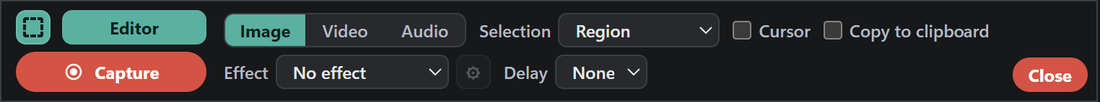
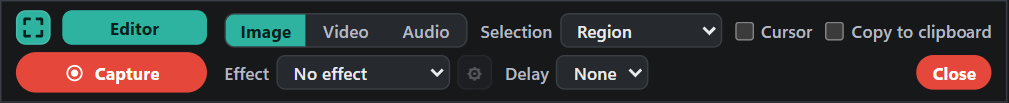
Saveit 10.4.8

diff --git a/app/index.html b/app/index.html
@@ -477,7 +477,7 @@ function layoutStage(){
   $('#inner').hidden=!it||it.kind!=='image';
   $('#guide').hidden=!it||it.kind!=='guide'; if(it&&it.kind==='guide')renderGuide();
   if(it&&it.kind==='video'){const w=document.createElement('div');w.className='vwrap';stage.appendChild(w);
-    const m=VEdit.mount(w,it,{toast,saveBlob,baseName,addVideo,persist,exportFile:()=>saveAs(),changed:()=>persist(it),newShape,drawShape,bbox,handles,selBox,resizeByHandle,handleCursor:HANDLE_CURSOR,moveShape,norm,askText,setStyle:(k,v)=>{S.p[k]=v},itemById:id=>S.items.find(x=>x.id===id),hydrate:x=>hydrate(x),videos:()=>S.items.filter(x=>x.kind==='video'&&x!==it),mediaMenu:e=>mediaTimelineMenu(e,'video'),pasteMedia:mode=>pasteMediaClip(mode).catch(actionError),paneChanged:()=>sync80()});vid=m.video;vid._wrap=w;vid._destroy=m.destroy;vid._ctl=m;try{renderProps()}catch(_){}}
+    const m=VEdit.mount(w,it,{toast,saveBlob,baseName,addVideo,persist,exportFile:()=>saveAs(),changed:()=>persist(it),newShape,drawShape,bbox,handles,selBox,resizeByHandle,handleCursor:HANDLE_CURSOR,moveShape,norm,askText,setStyle:(k,v)=>{S.p[k]=v},itemById:id=>S.items.find(x=>x.id===id),hydrate:x=>hydrate(x),videos:()=>S.items.filter(x=>x.kind==='video'&&x!==it),mediaMenu:e=>mediaTimelineMenu(e,'video'),canPasteMedia:()=>mediaClipboard?.kind==='video'&&!mediaCopyBusy,pasteMedia:mode=>pasteMediaClip(mode).catch(actionError),paneChanged:()=>sync80()});vid=m.video;vid._wrap=w;vid._destroy=m.destroy;vid._ctl=m;try{renderProps()}catch(_){}}
   if(it&&it.kind==='image'){const p=padFor(S.fx)+picMargin();cvW=S.ws?S.ws.sw:it.base.width+p*2;cvH=S.ws?S.ws.sh:it.base.height+p*2;cvK=0;applyZoom();}
 }
 let cvW=300,cvH=150,cvK=1;
@@ -978,6 +978,8 @@ const sessionSaved34=new Set();
 function saveExts9(it){const k=it.kind==='image'&&it.guide?'image':it.kind,l=(FORMATS[k]||FORMATS.image).map(x=>x[0]);if(it.kind==='video')return l.filter(x=>x==='mp4'?it.mp4:x==='webm'?it.webm:x==='gif');if(it.kind==='audio')return l;return['saveit',...l.filter(x=>x!=='saveit')]}
 async function save(fmtArg){const it=S.cur;if(!it)return;commitText();saveTarget9=null;saveOwner9=null;let fmt=typeof fmtArg==='string'?fmtArg:$('#fmt').value;
   if(typeof fmtArg!=='string'&&window.bench?.savePick){let p=it.savedPath;if(!p||!sessionSaved34.has(it.id)){const ex=saveExts9(it),pe=p?p.split('.').pop().toLowerCase():fmt;if(pe&&ex.includes(pe)){ex.splice(ex.indexOf(pe),1);ex.unshift(pe)}p=await window.bench.savePick(p?p.replace(/\.[^.\\]+$/,''):baseName(it),ex);if(!p)return;sessionSaved34.add(it.id)}fmt=p.split('.').pop().toLowerCase();saveTarget9=p;saveOwner9=it}
+  // 10.4.6: picking a .pptx name in the Save box wrote a PNG picture (or, for a guide, nothing) under that name
+  if(fmt==='pptx'&&(it.kind==='image'||it.kind==='guide')){const tgt=saveTarget9,own=saveOwner9;saveTarget9=null;saveOwner9=null;toast('Preparing the PowerPoint…',0);try{const b=await pptx33(it,true);if(!b)return;saveTarget9=tgt;saveOwner9=own;await saveBlob(b,fileName('pptx'))}catch(e){actionError(e)}return}
   if(it.kind==='video'){if(fmt==='gif'){saveTarget9=null;saveOwner9=null;if(vid&&vid._ctl)vid._ctl.saveGif();return}const ctl97=vid&&vid._ctl;if(ctl97&&((ctl97.needsRender&&ctl97.needsRender())||(fmt==='mp4'&&VEdit.needsMp4Render(it)))){const tgt=saveTarget9,own=saveOwner9,len=ctl97.duration?ctl97.duration():0,lenT=len?' ('+Math.floor(len/60)+':'+String((len%60).toFixed(1)).padStart(4,'0')+')':'';saveTarget9=null;saveOwner9=null;
     toast('Saving your edited video'+lenT+'… Cancel is in Export.',9000);
     (async()=>{try{const o=await ctl97.renderBlob(fmt==='mp4'?'mp4':'webm');if(!o){toast('Save cancelled. Nothing was written.',5000);return}const b2=fmt==='mp4'?o.mp4:(o.webm||o.mp4);if(!b2){toast('MP4 could not be made here. Choose WebM.',6000);return}saveTarget9=tgt;saveOwner9=own;saveBlob(b2,fileName(fmt),'Saved the edited video'+lenT+' to')}catch(e){toast('Could not save: '+(e.message||e),6000)}})();return}
@@ -1228,8 +1230,11 @@ function importFile(f){
   if(/\.saveit$/i.test(f.name)||/\.saveit\.json$/i.test(f.name)){openSaveit(f);return}
   if(f.type.startsWith('image/')){const img=new Image();img.onload=()=>{addImage(canvasFrom(img),f.name.replace(/\.\w+$/,''));URL.revokeObjectURL(img.src)};img.onerror=()=>toast('That image could not be opened.');img.src=URL.createObjectURL(f)}
   else if(f.type.startsWith('audio/')||/\.(wav|mp3|m4a|aac|ogg|oga|opus|flac|weba)$/i.test(f.name)){const nm=f.name.replace(/\.\w+$/,'');AEdit.decode(f).then(()=>addAudio([{name:nm,blob:f,vol:1,mute:false,solo:false}],nm)).catch(()=>toast('That audio file could not be opened. Try WAV, MP3, M4A, OGG or FLAC.',6000))}
-  else if(f.type.startsWith('video/')){videoThumb(f).then(t=>addVideo(f,f.name.replace(/\.\w+$/,''),t))}
+  else if(f.type.startsWith('video/')){videoOk106(f).then(ok=>{if(!ok){toast('That video could not be opened. Try MP4 or WebM.',6000);return}return videoThumb(f).then(t=>addVideo(f,f.name.replace(/\.\w+$/,''),t))}).catch(actionError)}
+  else toast(`Saveit can't open ${f.name}. It opens pictures, videos, audio and .saveit files.`,6000) // 10.4.6: before, other files were silently ignored
 }
+/* 10.4.6: a damaged video was added to the library as an empty "0.0 MB" item that could not play. Check it can be read first. */
+function videoOk106(f){return new Promise(res=>{const v=document.createElement('video'),u=URL.createObjectURL(f);let d=false;const end=ok=>{if(d)return;d=true;v.removeAttribute('src');v.load();URL.revokeObjectURL(u);res(ok)};v.muted=true;v.preload='metadata';v.onloadedmetadata=()=>end(true);v.onerror=()=>end(false);setTimeout(()=>end(true),10000);v.src=u})}
 $('#openBtn').onclick=()=>$('#file').click();
 $('#file').onchange=e=>{const gid=e.target.dataset.guide;delete e.target.dataset.guide;const g=gid&&S.items.find(x=>x.id===gid);
   if(g){inOrder105([...e.target.files].filter(f=>f.type.startsWith('image/')),img=>{makeStep(g,canvasFrom(img));persist(g);if(S.cur===g){renderGuide();renderGuideProps($('#props'),g)}renderTray()})}
@@ -1240,7 +1245,7 @@ function importFiles105(files){const pics=files.filter(f=>f.type.startsWith('ima
 document.addEventListener('paste',e=>{if(editing||textTarget(e.target))return;const fs=[...(e.clipboardData?.items||[])].filter(i=>i.kind==='file').map(i=>i.getAsFile()).filter(Boolean);if(fs.length){e.preventDefault();pasteFiles11(fs)}});
 // 10.3.11: Ctrl+V does what right-click > Paste does. With a screenshot open, pasted pictures go on top of it as layers; with
 // nothing open, in the Library window, or for video/audio files they are added to the library as before.
-async function pasteFiles11(fs){const it=S.cur;if(it?.kind==='image'&&!it.guide&&!$('#libModal')&&fs.every(f=>/^image\//.test(f.type))){try{let n=0;for(const f of fs)await pasteImageLayer(await pictureUrl88(f),n++,fs.length>1);if(fs.length>1)toast(`Added ${fs.length} pictures. Drag to move; use the handles to resize. Ctrl+Z undoes.`,5000)}catch(err){actionError(err)}return}importFiles105(fs);toast('Pasted into library')}
+async function pasteFiles11(fs){const it=S.cur;if(it?.kind==='image'&&!it.guide&&!$('#libModal')&&fs.every(f=>/^image\//.test(f.type))){try{let n=0;for(const f of fs)await pasteImageLayer(await pictureUrl88(f),n++,fs.length>1);if(fs.length>1)toast(`Added ${fs.length} pictures. Drag to move; use the handles to resize. Ctrl+Z undoes.`,5000)}catch(err){actionError(err)}return}importFiles105(fs);if(fs.some(f=>/^(image|video|audio)\//.test(f.type)||/\.(saveit|saveit\.json|wav|mp3|m4a|aac|ogg|oga|opus|flac|weba)$/i.test(f.name)))toast('Pasted into library')}
 stage.addEventListener('dragover',e=>{e.preventDefault();stage.classList.add('dragging')});
 stage.addEventListener('dragleave',e=>{if(e.target===stage||!stage.contains(e.relatedTarget))stage.classList.remove('dragging')});
 stage.addEventListener('drop',e=>{e.preventDefault();stage.classList.remove('dragging');importFiles105([...e.dataTransfer.files])});
@@ -2297,6 +2302,7 @@ async function openSaveit(f){try{const d=JSON.parse(await f.text());if(d.app!=='
   else if(d.kind==='guide'){const g=newGuide(d.title);g.numColor=d.numColor||g.numColor;g.pageShapes=d.pageShapes||[];
     for(const st of d.steps||[]){const c=await dataUrlCanvas(st.png);const x=makeStep(g,c);x.title=st.title||'';x.text=st.text||'';x.shapes=st.shapes||[];x.fx=st.fx||defFx();const old=st.id;if(old){for(const ps of g.pageShapes)if(ps.anchor===old)ps.anchor=x.id}}
     openItem(g);persist(g)}
+  else throw 0; // 10.4.6: an unknown kind said "Opened" while nothing opened
   toast('Opened '+f.name)}catch(e){toast('That file is not a Saveit file, or it is damaged.')}}
 
 // Saveit 3.3: library performance first, then everyday workflows and editing.

diff --git a/app/audio-project.js b/app/audio-project.js
@@ -35,7 +35,7 @@ function remove(p,ids,range,ripple=false,all=false){
   for(const t of p.tracks){const spans=all?global:merge(chosen.filter(c=>c.track===t.id));for(const c of p.clips.filter(c=>c.track===t.id))c.start-=spans.filter(s=>s[1]<=c.start+.000001).reduce((sum,s)=>sum+s[1]-s[0],0);for(const [a,b]of spans.slice().reverse()){const e={effects:t.effects};root.AudioTimeline.cutEffects(e,a,b);t.effects=e.effects}}
   if(all)for(const [a,b]of global.slice().reverse()){const e={effects:p.effects};root.AudioTimeline.cutEffects(e,a,b);p.effects=e.effects}p.length=Math.max(0,...p.clips.map(end));return true;
  }
- const tracks=affectedTracks(p,ids,range,all);let a,b;
+ const tracks=affectedTracks(p,ids,range,all);if(ripple)all=all||p.tracks.every(t=>tracks.has(t.id));let a,b;
  if(range){a=range.s;b=range.e}else{const clips=p.clips.filter(c=>ids.has(c.id));if(!clips.length)return false;a=Math.min(...clips.map(c=>c.start));b=Math.max(...clips.map(end))}
  if(b-a<.00001)return false;const out=[];
  for(const c of p.clips){if(!tracks.has(c.track)){out.push(c);continue}if(!range&&!ids.has(c.id)){if(ripple&&c.start>=b)c.start-=b-a;out.push(c);continue}
@@ -46,7 +46,8 @@ function remove(p,ids,range,ripple=false,all=false){
  p.clips=out;if(ripple){for(const t of p.tracks)if(tracks.has(t.id)){const e={effects:t.effects};root.AudioTimeline.cutEffects(e,a,b);t.effects=e.effects}if(all){p.length=Math.max(0,p.length-(b-a));const e={effects:p.effects};root.AudioTimeline.cutEffects(e,a,b);p.effects=e.effects}}
  return true;
 }
-function insertGap(p,at,amount,tracks,all=false){split(p,new Set(p.clips.filter(c=>tracks.has(c.track)).map(c=>c.id)),at);for(const c of p.clips)if(tracks.has(c.track)&&c.start>=at-.000001)c.start+=amount;for(const t of p.tracks)if(tracks.has(t.id))t.effects=root.AudioTimeline.insertEffects(t.effects,at,amount);if(all){p.effects=root.AudioTimeline.insertEffects(p.effects,at,amount);p.length+=amount}}
+// 10.4.6: when the chosen tracks are every track, whole-project effects move with the audio too (as with "All tracks")
+function insertGap(p,at,amount,tracks,all=false){all=all||p.tracks.every(t=>tracks.has(t.id));split(p,new Set(p.clips.filter(c=>tracks.has(c.track)).map(c=>c.id)),at);for(const c of p.clips)if(tracks.has(c.track)&&c.start>=at-.000001)c.start+=amount;for(const t of p.tracks)if(tracks.has(t.id))t.effects=root.AudioTimeline.insertEffects(t.effects,at,amount);if(all){p.effects=root.AudioTimeline.insertEffects(p.effects,at,amount);p.length+=amount}}
 function duplicate(p,ids){const selected=p.clips.filter(c=>ids.has(c.id));if(!selected.length)return[];const a=Math.min(...selected.map(c=>c.start)),b=Math.max(...selected.map(end));return selected.map(c=>{const n={...copy(c),id:id('clip'),start:c.start+b-a};n.effects=n.effects.map(f=>({...f,id:id('fx')}));p.clips.push(n);return n.id})}
 function owner(p,type,target){return type==='master'?p:type==='track'?p.tracks.find(t=>t.id===target):p.clips.find(c=>c.id===target)}
 function effect(type,start,stop){return{...root.AudioFX.defaults(type),id:id('fx'),type,start,end:stop,amount:type==='volume'?100:type==='echo'?35:type==='reverb'?30:100,delayMs:180,feedback:35,decay:.45,bypass:false}}

diff --git a/app/widget.html b/app/widget.html
@@ -22,9 +22,9 @@ button.go{background:#e5483b;border-color:#e5483b;color:#fff}
 .seg{display:flex;border:1px solid #3a3f45;border-radius:8px;overflow:hidden}
 .seg button{border:0;border-radius:0;background:transparent;color:#b4bac0}
 .seg button[aria-pressed=true]{background:#2db3a0;color:#06211d}
-#hide{position:absolute;right:6px;bottom:6px;height:24px;padding:0 11px;border-radius:12px;border:0;background:#e5483b;color:#fff;font-size:12px;font-weight:700;line-height:24px}
+#hide{margin-left:auto;flex:none;height:24px;padding:0 11px;border-radius:12px;border:0;background:#e5483b;color:#fff;font-size:12px;font-weight:700;line-height:24px}
 #hide:hover:not(:disabled){background:#ff5a4c;border:0}
-.bar{position:relative;padding-right:74px}
+.bar{position:relative}
 [hidden]{display:none!important}
 </style></head>
 <body>
@@ -68,8 +68,8 @@ addEventListener('storage',e=>{if(e.key!=='saveit.cam')return;const id=CAMDRAW.l
 {const bar=$('bar'),col=document.createElement('div'),r1=document.createElement('div'),r2=document.createElement('div'),areaL=$('area').closest('label'),delayL=$('delay').closest('label'),curL=$('oCur').closest('label'),clipL=$('oClip').closest('label');
  col.className='optcol';r1.className='optrow';r2.className='optrow';col.append(r1,r2);bar.append(col);
  ab=AUDIOBAR.mount(()=>{push();setTimeout(resize,30)});const E=ab.els;
- const place=()=>{if(vmode==='audio'){r1.append(document.querySelector('.seg'),E.mic1,E.add,areaL,curL,clipL);r2.append(E.mic2,E.sys,delayL,$('imgOpts'),$('vidOpts'));setTimeout(resize,30);return}
-  r1.append(document.querySelector('.seg'),areaL,curL,clipL);if(vmode==='video'){r1.append(delayL);r2.append($('vidOpts'))}else r2.append($('imgOpts'),delayL);r2.append(vmode==='video'?$('imgOpts'):$('vidOpts'));r1.append(E.mic1,E.add);r2.append(E.mic2,E.sys)};
+ const place=()=>{if(vmode==='audio'){r1.append(document.querySelector('.seg'),E.mic1,E.add,areaL,curL,clipL);r2.append(E.mic2,E.sys,delayL,$('imgOpts'),$('vidOpts'),$('hide'));setTimeout(resize,30);return}
+  r1.append(document.querySelector('.seg'),areaL,curL,clipL);if(vmode==='video'){r1.append(delayL);r2.append($('vidOpts'))}else r2.append($('imgOpts'),delayL);r2.append(vmode==='video'?$('imgOpts'):$('vidOpts'));r1.append(E.mic1,E.add);r2.append(E.mic2,E.sys,$('hide'))};
  for(const b of [E.add,E.mic2.querySelector('.amic-x')])b.addEventListener('click',()=>setTimeout(resize,30));
  const labelsBefore=labels;labels=function(){labelsBefore();place()};place()}navigator.mediaDevices.addEventListener('devicechange',refreshDevices);
 $('ok').onclick=()=>window.widget.go(collect());$('ed').onclick=()=>window.widget.editor();$('hide').onclick=()=>window.widget.hide();

diff --git a/app/vedit2.js b/app/vedit2.js
@@ -597,6 +597,8 @@ function mount(host,it,api){css();HK=api;
       else {add('Duplicate',()=>{if(ty==='ov')act.odup();else if(ty==='vfx')act.vfxdup();else{snap();const copy=clone(c);copy.id=newId(e,'i');e[SEL_LIST[ty]].push(copy);select(ty,copy);changed()}})}
       add(ty==='clip'?'Delete & close gap':'Delete',()=>act.del());if(ty==='clip')add('Delete (keep gap)',()=>act.delgap());
     }
+    // 10.4.6: Saveit says "Right-click the open timeline to paste or insert" after copying a clip, but this menu had neither
+    if(api.pasteMedia){const can=api.canPasteMedia?api.canPasteMedia():true;add('Paste at playhead',()=>api.pasteMedia('stack'),can);add('Insert at playhead',()=>api.pasteMedia('insert'),can)}
     add('Add video…',()=>act.addvid());add('Add audio…',()=>act.addaud());add('Add caption',()=>{showPane('video');setTab('caps');act.addcap()});add('Set In at playhead',()=>act.setin());add('Set Out at playhead',()=>act.setout());add('Reset In/Out range',()=>{inT=0;outT=D();syncRange()});add('Undo',()=>act.undo(),hist.length>0);add('Redo',()=>act.redo(),fut.length>0);
     if(!c)add('Reset video edit',()=>act.reset());
     const menu=document.createElement('div');contextMenu=menu;menu.className='vcontext';menu.setAttribute('role','menu');Object.assign(menu.style,{position:'fixed',zIndex:100000,background:'#20262c',color:'#fff',border:'1px solid #65717c',borderRadius:'8px',padding:'5px',boxShadow:'0 6px 24px #0008',minWidth:'210px',maxHeight:'85vh',overflowY:'auto'});

diff --git a/docs/index.html b/docs/index.html
@@ -617,7 +617,7 @@
 <a class="text-link" href="#start">Get started with Save It ↗</a>
 </div>
 <div class="widget-preview">
-<img src="images/widget.png" width="1100" height="102" loading="lazy" alt="Save It compact capture widget with Image, Video, Audio, region selection and Capture controls">
+<img src="images/widget.png" width="1009" height="103" loading="lazy" alt="Save It compact capture widget with Image, Video, Audio, region selection and Capture controls">
 </div>
 </div>
 </section>

diff --git a/docs/changes/CHANGES-10.4.6.md b/docs/changes/CHANGES-10.4.6.md
@@ -1,0 +1,40 @@
+# Saveit 10.4.6
+
+A fourth hands-on round. It covered damaged and unusual files, every Save format, GIF export from videos, and audio projects with several tracks. These are the problems it found, and the fixes.
+
+## Saving a picture as PowerPoint gave a file PowerPoint can't open
+If you clicked **Save** and gave the file a `.pptx` name, Saveit wrote a PNG picture under that name, so PowerPoint couldn't open it. For a step guide, nothing was saved at all.
+- Save now makes a real PowerPoint file at the name you chose, with a title slide and the picture (or one slide per step for a guide).
+- Tested: the saved file opens as a PowerPoint presentation with its slides and picture.
+
+## Damaged videos no longer land in the library
+A video file that can't be played (damaged, or not really a video) was added to the library as an empty "Video 0.0 MB" item with a blank thumbnail. Opening it only said "That file could not be opened."
+- Saveit now checks the video first. If it can't be read, you see "That video could not be opened. Try MP4 or WebM." and nothing is added.
+- Good MP4 and WebM files still open straight away (0.2 to 0.7 s, with a thumbnail).
+
+## Files Saveit can't open now say so
+Opening, dropping or pasting a file Saveit can't use (for example a .txt or .pdf) did nothing at all, with no message.
+- Now you see, for example: "Saveit can't open notes.txt. It opens pictures, videos, audio and .saveit files."
+- Pasting such a file no longer says "Pasted into library".
+
+## A damaged .saveit file no longer says "Opened"
+A .saveit file from Saveit that held an unknown kind of item said "Opened …" while nothing opened. It now says "That file is not a Saveit file, or it is damaged.", like other damaged .saveit files.
+
+## Checked and working well (no change needed)
+- **Unusual pictures:**
+  - WebP, a JPG named .png, and SVGs with and without a size all open correctly.
+  - A phone photo that is stored sideways opens the right way up.
+  - Very large pictures open: 16000 × 9000 in 2.5 s, and 1200 × 30000 in 1.6 s.
+  - File names with Japanese characters, accents and emoji are kept exactly.
+- **Broken files:** an empty or fake picture, a broken MP3, and a damaged or unrelated .saveit file all give a clear message, with no errors.
+- **GIF from a video:** a 7-second video became a 480 × 270 animated GIF of 70 frames in 3.3 s, and the window never froze.
+- **Audio with several tracks:**
+  - Add audio… puts the new clip on its own track, and + Track adds an empty one.
+  - Undo and Redo step back and forward through both.
+  - The saved WAV contains both tracks mixed together.
+  - After a restart, the tracks and clips are exactly as they were.
+- Every other Save format for pictures, guides, videos and audio goes to the code that makes that format.
+
+## Not changed, and why
+- A PNG that is cut off part-way still opens, with the missing part shown white and no message. This is how browsers show such files, and the part that is there is kept.
+- Screen capture, recording, scrolling capture (stitching) and the widget were again not tested. They use the real screen and mouse, and the screens were in use.

diff --git a/docs/changes/CHANGES-10.4.7.md b/docs/changes/CHANGES-10.4.7.md
@@ -1,0 +1,28 @@
+# Saveit 10.4.7
+
+This round looked into the 9 checks in tests/layer-media-tests.cjs that had been failing since before 10.4.2 and were listed as "known failures". They covered pasting and inserting clips into the audio and video editors, and timed audio effects.
+
+Most of them were checking the audio editor that Saveit used before 9.9.4. The current audio editor replaced it; the old one now appears only for a project that cannot be converted. So most of the failures were the tests being out of date, not the features being broken. Every feature they covered was tried again in the current editor, by checking the sound that is actually saved. Two real problems turned up.
+
+## Paste and Insert in the video timeline's right-click menu
+After you copy a video clip, Saveit says "Right-click the open timeline to paste or insert". But the video timeline's right-click menu had neither option; only Ctrl+V worked.
+- The menu now has **Paste at playhead** and **Insert at playhead**. They are greyed out until a video clip has been copied.
+
+## Audio effects stay with the audio they were put on
+If you put an effect on the whole recording (for example "make 1 to 2.8 seconds quieter") and then inserted a clip or ripple-deleted a range before or inside it, the audio moved but the effect stayed where it was. It then applied to the wrong part of the recording, for example making the inserted clip quieter instead.
+- This happened when the editing scope was "Selected tracks" (the default), even when the recording had only one track.
+- When the edit affects every track, whole-recording effects now move and shrink with the audio, just as they do with "All tracks". With several tracks and only some chosen, nothing changes: other tracks still keep their timing.
+
+## Checked in the current audio editor and working
+Each item was checked by measuring the pitch and loudness of the mixed sound.
+- **Insert at the playhead:** splits the clip, moves the later audio along, and Undo and Redo work.
+- **Pasting after earlier cuts** keeps the edited audio. Repeated pastes, and copying a recording into itself, work too.
+- **Restart:** inserted audio is still in the right place after reopening.
+- **Volume effects:** two volume effects that overlap stack correctly, and each one only affects its own time range.
+- **Moving and resizing effects:** effect bars can be dragged and resized. A time beyond the end of the audio is refused with a message, and Undo and Redo restore the effect.
+- **Mute, echo, reverb and fades:** Mute silences exactly its range. Echo, reverb and fades stack without producing broken sound.
+- **Save selection as sound:** makes a 1-second Library clip, keeps the recording open, and the clip can then be pasted in.
+- **Effects after restart:** effects are still in place after reopening, and Trim keeps them inside the audio that is left.
+
+## Tests
+- tests/layer-media-tests.cjs now tests the current audio editor. All 20 checks pass, and it is no longer listed in tests/known-failures.json.

diff --git a/docs/changes/CHANGES-10.4.5.md b/docs/changes/CHANGES-10.4.5.md
@@ -27,3 +27,11 @@ On a 4K screenshot, Rotate and Flip froze the window for about a quarter of a se
 ## Not changed, and why
 - Screen capture, recording and the widget were again not tested. They use the real screen and mouse, and the screens were in use.
 - Memory sits at about 700 MB after opening 25 large screenshots again and again. It stays at that level and does not keep growing. Releasing pictures sooner did not lower it and made opening slower, so that change was not kept.
+
+## Release record (2026-11-21)
+- Published at https://github.com/stuartraymor/Saveit/releases/tag/v10.4.5 from main commit 5949f40. It is a normal release (not a draft or pre-release) and GitHub's "latest".
+- Assets: Saveit-10.4.5.zip (779,925 bytes, SHA-256 fa24698610aa75ad85d7ef86e0d4f6c34016b22ae112d3e6dd77d32bae7649d4), .zip.sig (checked against the key in app/updater.js), .sha256, and Saveit-Setup.exe (862,208 bytes).
+- The zip's app folder matches the tested app and the app installed on this PC, file for file (ignoring line endings). The main commit changes exactly the 13 files of this release; each keeps the line endings it has on main.
+- Saveit-Setup.exe: tests/setup-ui-test.ps1 passed all 11 checks, installing into a scratch folder.
+- Real update from GitHub: a scratch copy of 10.4.2 clicked Check for Updates, then Install Update (download and verify in 1.4 s), then Install and restart. update.log: "result: ok - Saveit was updated to version 10.4.5 and is running." (after 6 s). The updated app folder is identical to the tested one.
+- The one-click link redirects to v10.4.5.

diff --git a/README.md b/README.md
@@ -88,7 +88,7 @@ It installs for your user account only, with no admin rights. Setup downloads th
 
 **Updating:** from version 10.2.0 on, click **Check for Updates →** at the bottom right of the editor. It checks only when you click it, verifies each release's digital signature before installing, keeps your library and settings, and puts the previous version back if the new one does not start. Every release zip is published with a `.sig` signature file and a `.sha256` checksum.
 
-What's new: [10.4.5](docs/changes/CHANGES-10.4.5.md) · [10.4.4](docs/changes/CHANGES-10.4.4.md) · [10.4.3](docs/changes/CHANGES-10.4.3.md) · [10.4.2](docs/changes/CHANGES-10.4.2.md) · [10.4.1](docs/changes/CHANGES-10.4.1.md) · [all versions](docs/changes)
+What's new: [10.4.8](docs/changes/CHANGES-10.4.8.md) · [10.4.7](docs/changes/CHANGES-10.4.7.md) · [10.4.6](docs/changes/CHANGES-10.4.6.md) · [10.4.5](docs/changes/CHANGES-10.4.5.md) · [10.4.4](docs/changes/CHANGES-10.4.4.md) · [all versions](docs/changes)
 
 ## Where Saveit is going
 

diff --git a/docs/changes/CHANGES-10.4.8.md b/docs/changes/CHANGES-10.4.8.md
@@ -1,0 +1,5 @@
+# Saveit 10.4.8
+
+## A smaller capture widget
+- The red **Close** button now sits in the widget's second row, under **Copy to clipboard**, instead of in its own space at the right edge.
+- This makes the widget narrower: 64 pixels narrower in Image and Audio mode, and 21 pixels narrower in Video mode. Nothing else moved, and Close never covers another control.
